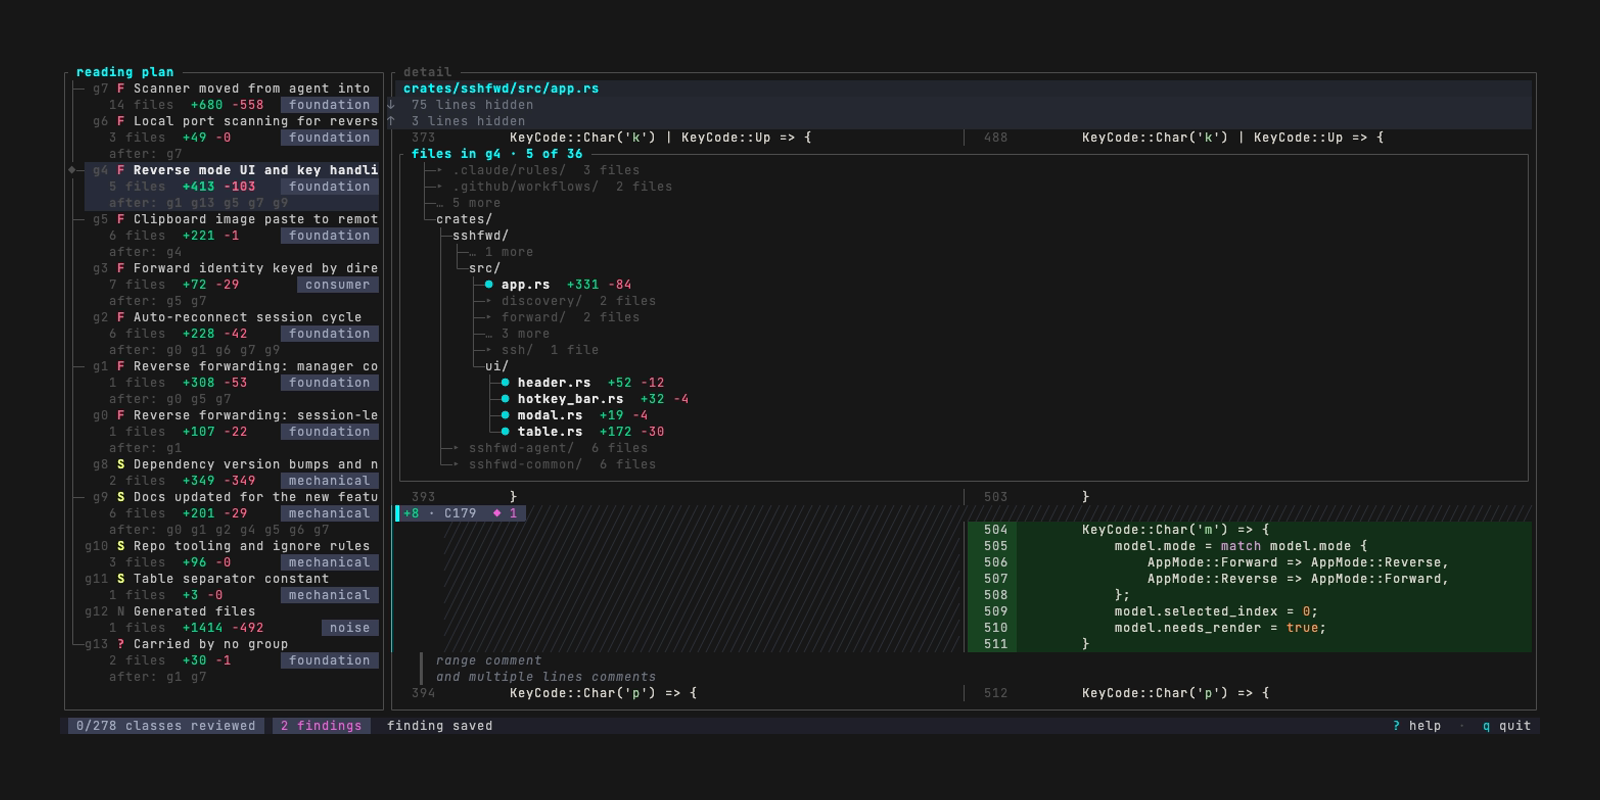
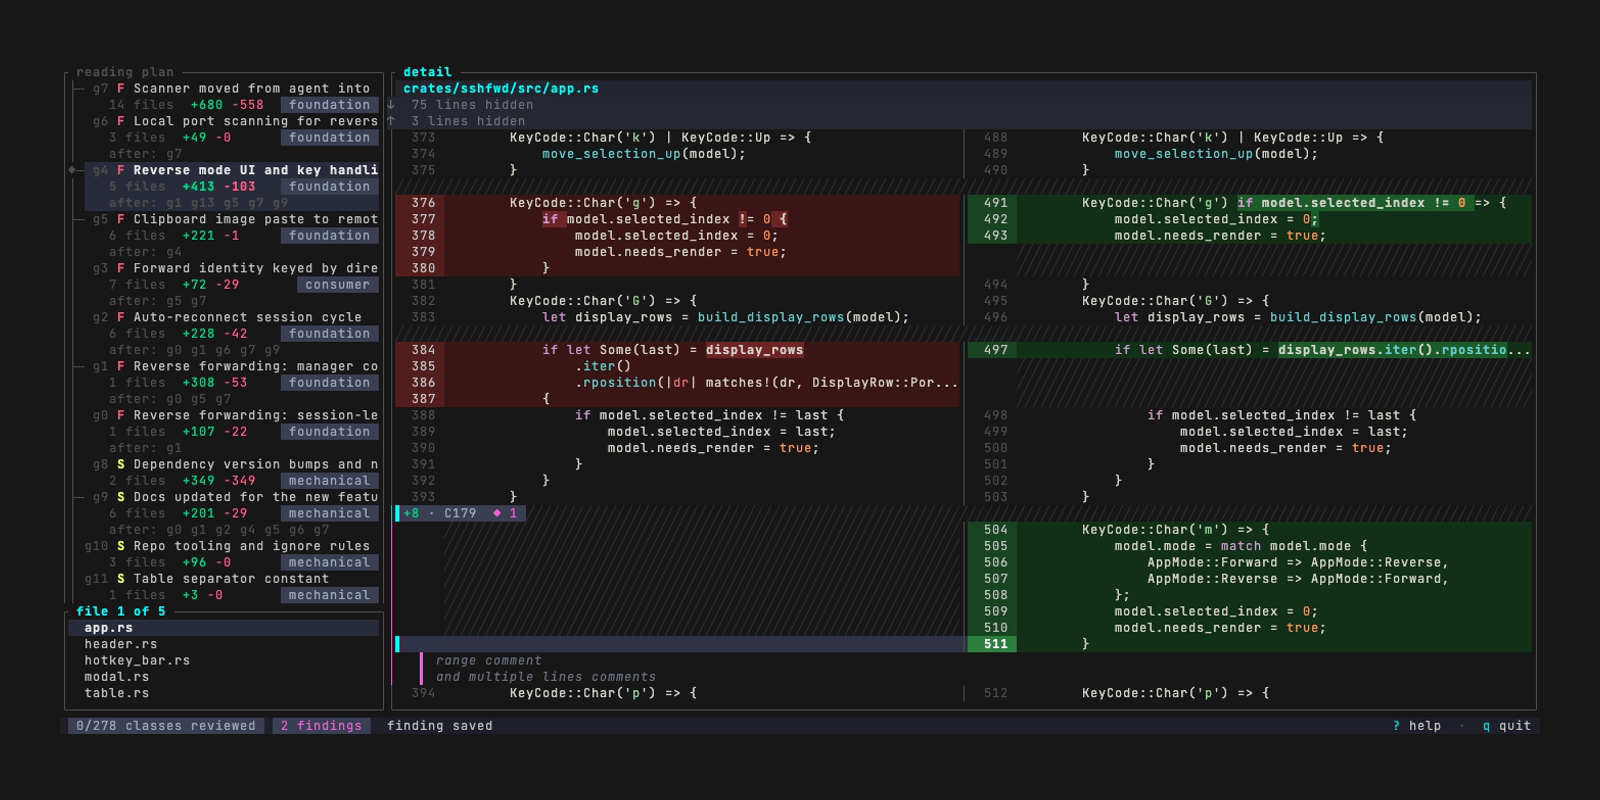
docs: the re-recorded demo, and a shot that shows the split view
The first recording ended with `-- INSERT --recording @v` on vim's status
line and a stray `m` above the pasted summary: a duplicated block in the
tape fired into vim after it had launched, where `q` starts a macro and
`vim` names the register. The tape drops the duplicate and the ending is
clean.

The new attachment is public — 200 to an anonymous fetch, which the first
one was not: an asset stays private to its uploader until the comment
holding it is submitted.

The screenshot is retaken on a hunk that has something to show. It now
carries the side-by-side layout with word-level emphasis and the file-list
float, rather than a plain unified window, and the alt text says so.

Claude-Session: https://claude.ai/code/session_01MvgZvA3Uyc6kG7nx8m1YsJ

diff --git a/crates/cli/README.md b/crates/cli/README.md
@@ -15,7 +15,7 @@ parses arguments and dispatches. All the work happens in
 
 Project home: <https://github.com/gogoout/differential>
 
-![The dfr review reviewer: the reading plan on the left, the diff on the right](https://raw.githubusercontent.com/gogoout/differential/main/assets/screenshot.png)
+![The dfr review reviewer: the reading plan on the left with groups rated focus, skim and noise; a side-by-side diff on the right with word-level emphasis, a file-list float, and a two-line finding under the code it annotates](https://raw.githubusercontent.com/gogoout/differential/main/assets/screenshot.png)
 
 ## Install
 

diff --git a/README.md b/README.md
@@ -17,7 +17,7 @@ careful reading. Then it gives you a reading plan in the order you should read i
 Every hunk is accounted for. Nothing is filtered out, ever. So skipping what the plan
 says to skip is safe.
 
-https://github.com/user-attachments/assets/02b493b1-eb01-45e6-8dca-d976d87a3918
+https://github.com/user-attachments/assets/0d8dccb7-ddb7-4c71-b6a5-582e9e2a00a7
 
 *`dfr review` on a 278-class branch: the reading plan on the left, the diff on the right.
 Marking a shape class read, writing a finding over a range of lines, and copying every
